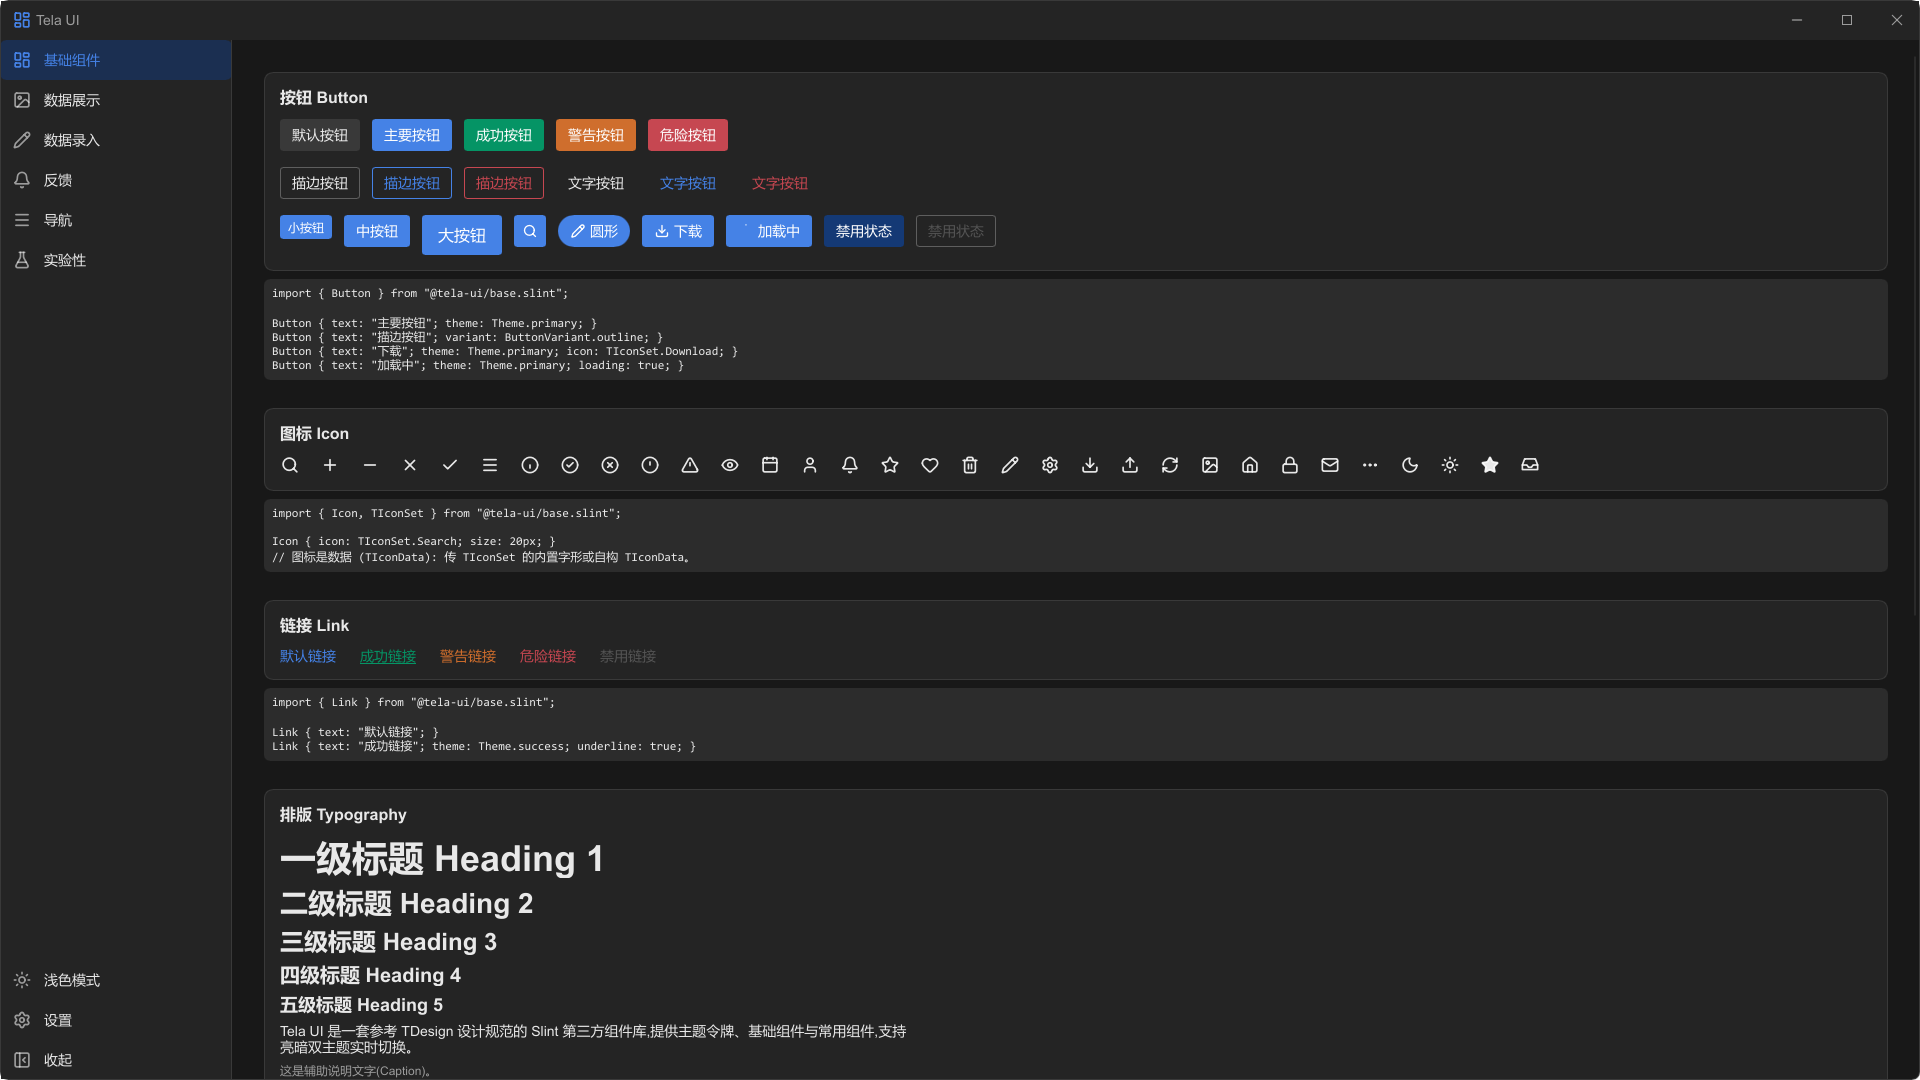
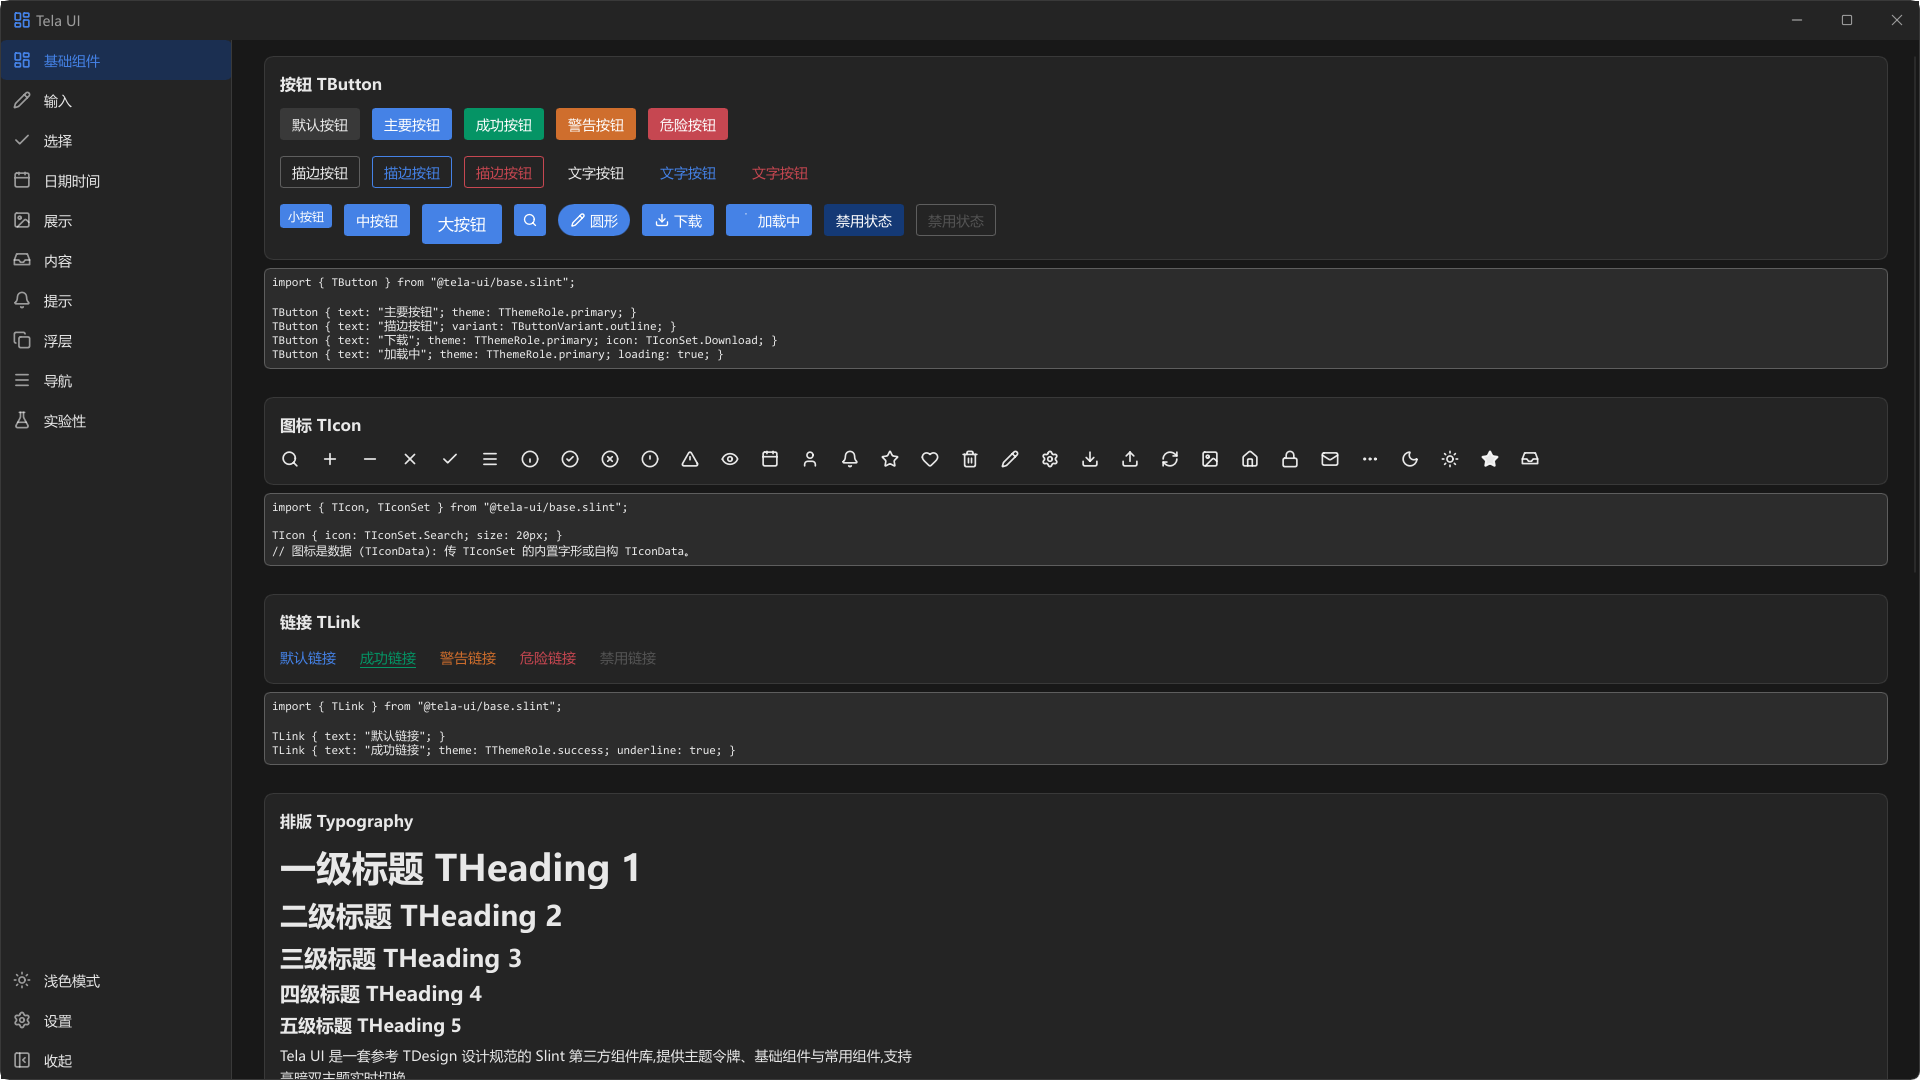
feat(tela-ui): Added TTree component with nested declarative branches
- Added TTree, TTreeItem and TTreeBranch; branches take children through @children so nesting depth is unbounded.
- Animated folded branches by clipping height while keeping child instances alive.
- Shared the selected value through TTreeLogic and added Folder/File glyphs to TIconSet.
- Re-exported the tree from content.slint and common.slint.
- Added a gallery demo, component docs and a decision record, and refreshed screenshots.

diff --git a/CHANGELOG.md b/CHANGELOG.md
@@ -5,13 +5,14 @@
 ## [Unreleased]
 
 ### Added
-- 组件库: 70 个导出组件 = 57 个 UI 组件 + 8 个服务 overlay (TDialogService / TLoadingService / TMessage / TNotification / TTooltip / TImageViewerService / TActionSheetService / TCommandPaletteService) + 5 个库内基类 (TStrokedShape / TInputFrame / TModalSurface / TPopupSurface / TPopupStackLayer)。
+- 组件库: 73 个导出组件 = 60 个 UI 组件 + 8 个服务 overlay (TDialogService / TLoadingService / TMessage / TNotification / TTooltip / TImageViewerService / TActionSheetService / TCommandPaletteService) + 5 个库内基类 (TStrokedShape / TInputFrame / TModalSurface / TPopupSurface / TPopupStackLayer)。
 - `TTable`: 列定义 + 行模型, 表头排序回调 (`sort-changed`), 行点击回调, ListView 虚拟滚动与空态; 列宽超出时水平滚动且表头同步; 排序只上报, 行重排由宿主完成。
 - `TCalendar` / `TDatePicker`: 月历面板 (闰年/大小月/首日星期在 Slint 内计算), 单选与区间选择, 只读触发器 + 锚定弹层; 区间底色为连通色带, 起点/终点按 50% 圆角收口 (与日期圆圈一致); `TDate` 结构承载年/月/日。
 - `TTimePicker`: 时间选择, 只读触发器 + 锚定时/分(秒)面板; 整列数据带动画滚动, 选中框画在选中行上随数据移动, 点击或滚轮逐格改值, 无确认按钮 (点击外部 / ESC 关闭); `TTime` 结构承载时/分/秒 (`hour < 0` = 未选); `TIconSet` 新增 `Clock`。
 - `TAutoComplete`: 输入联想, TInput + 锚定建议列表; 按标签做不区分大小写的子串过滤 (行内塌陷, 不重建模型), 聚焦或键入展开, 高亮首条可选匹配, 回车/点击选中, 无匹配显示 `empty-text`; `TAutoCompleteItem` 承载 label/value/disabled。
 - `TInput`: 新增公开函数 `move-caret-to-end()`, 宿主写入 `text` 后可把光标放到末尾。
-- `common.slint`: 补齐 `TTable` / `TSkeleton` / `TCalendar` / `TDatePicker` / `TTimePicker` / `TAutoComplete` 导出, 与分类聚合器保持一致。
+- `TTree`: 树形控件, 嵌套声明式结构 (参考 sleek-ui `UMenu`): `TTree` + `TTreeItem` + `TTreeBranch`, 分支用 `@children` 承载子节点, 深度不限且无需组件递归; 分支折叠靠 `clip` + 高度动画 (收起后子节点保留实例); 叶子点击写入 `TTreeLogic.current-value` (全局选中值, 与 sleek-ui `UMenuLogic` 同构); `TIconSet` 新增 `Folder` / `File`。
+- `common.slint`: 补齐 `TTable` / `TSkeleton` / `TCalendar` / `TDatePicker` / `TTimePicker` / `TAutoComplete` / `TTree` 导出, 与分类聚合器保持一致。
 - 浮层体系: `TPopupSurface` 锚定弹层 + `TPopupStack` 层计数 / ESC / z 序令牌。
 - 设计令牌: `TTheme` global 151 个顶层转发, `TAppThemeConfig` 103 字段, 亮/暗两套色板 ramp。
 - 无障碍: 可点击元素覆盖 `accessible-role` / `accessible-label`, 浮层文本带 `accessible-live-region`, 禁用态显式 `accessible-enabled` 并在动作回调自带守卫。

diff --git a/docs/decisions.md b/docs/decisions.md
@@ -23,3 +23,4 @@
 - **不做令牌漂移守卫 (2026-10-18)** — 两套预设里那 70 个字段重复是刻意对齐 TDesign 令牌清单的结果, 不加运行时断言也不建测试工程; 改 `theme.slint` 时人工比对两套预设。
 - **分类聚合器按交互类型拆分 (2026-10-22)** — 组件数到 57 后, `data-entry` / `data-display` / `feedback` 各自塞了 13–16 个组件, 单类过宽; 拆成 `input` / `select` / `date-time` / `display` / `content` / `notice` / `overlay` 等目录与聚合器, 旧聚合器删除 (破坏性变更), `common.slint` 继续汇总全部导出; gallery 侧栏同步拆成 10 个页面 (另加设置页), 与聚合器一一对应。
 - **TTimePicker 用整列数据 + 行内选中框, 不套 ListView (2026-10-21)** — `ListView` 的 `content-y` 由内部 Flickable 接管, 按选中值定位会被下一次布局清回 0(见 `slint-semantics.md` 第 28 条), 所以时间列直接渲染整列(时 24 / 分秒 60 行), 自己维护偏移量并 `animate` 它: 选中框画在选中行上, 数据带动画滚动时它也一起移动, 点击或滚轮把新值送到中间。无确认按钮, 靠点击外部 / ESC 关闭。代价是没有虚拟化与惯性滚动; 换来真正的数据滚动与跟随数据的选中框。
+- **TTree 用嵌套声明, 不用扁平行模型 (2026-10-23)** — 照 sleek-ui 的 `UMenu` 做成 `TTree` / `TTreeItem` / `TTreeBranch`: 分支用 `@children` 收子节点, 折叠是把子节点放进 `clip` 盒并在 `preferred-height ↔ 0px` 间动画 (收起后实例保留, 焦点不丢)。此前的扁平行模型 (`rows` + `depth`) 要求宿主在回调里重建数组才能收起, 而组件自己既不能写 `rows`(它是 `in`) 也无法把子行藏起来, 落地就是"点了收不起来"。代价是选中值只能放全局 `TTreeLogic`(对应 sleek-ui `UMenuLogic`), 同窗口多树共享一份选中态; 换来点击即收、无需宿主管可见性的结构。深度靠元素嵌套而非组件递归, 不与其冲突。

diff --git a/docs/slint-semantics.md b/docs/slint-semantics.md
@@ -58,3 +58,5 @@
 27. **ListView 只自动算 `content-height`, 横向内容宽要自己给** — `Flickable` 对 `for` 循环生成的内容不会自动求 `content-width`(源码注明 issue #407), ListView 内部只维护纵向的 `content-height`; 要横向滚动就把 `content-width` 设成内容的固有宽度, 行元素显式给同一宽度, 表头绑 `content-x` 跟随。实测 TTable 1200px 固定列在 600px 视口里可横向滚动且表头同步, 纵向滚动与表头纵向固定不受影响。
 
 28. **ListView 的 `content-y` 归内部 Flickable 所有** — 外部给 `content-y` 写绑定或命令式赋值都留不住: 探针在 TTimeColumn 的 `init` 写入 192px/864px(视口高已就绪), 首帧后两条列都回到 0, 绑定也被那次内部写入解除; 换成 `Timer` 在打开后写同样被下一次布局复位。要做"数据整体滚动 + 选中值居中"的时间列, 不要在外面拨 ListView 的 `content-y`: 直接渲染整列、自己维护偏移量并 `animate` 它(TTimePicker 即整列数据 + 行内选中框), 或只渲染可见行而不滚动。
+
+29. **`for it[i] in model` 里写 `it.field = v` 会写回模型, 即使模型属性是 `in`** — 探针用一个 `in property <[MutRow]> rows` 加 `out property <bool> f0: rows[0].flag`, 点击行内 `TouchArea` 执行 `it.flag = !it.flag`: 点击前 `f0=false`, 点击后 `f0=true`, 说明循环变量对数组项是引用而非拷贝, 写入穿透到模型; 编译期也不把这种写入当"改 `in` 属性"拦下。所以扁平模型组件在回调里改行字段是可行的 —— TTree 最初"点了收不起来"不是写入被丢弃, 而是组件没有任何把子行藏起来的机制 (子行是否出现取决于宿主重建 `rows`), 最终改用嵌套声明 (见 `decisions.md`)。反过来, 依赖"改字段就能重绘"的说法未单独取像素证据, 需要时按本仓 `docs/harness.md` 的截图配方另测。

diff --git a/README.md b/README.md
@@ -89,7 +89,7 @@ TSwitch {
 }
 ```
 
-57 个组件 (基础 12 / 输入 6 / 选择 7 / 日期时间 3 / 展示 8 / 内容 4 / 提示 3 / 浮层 4 / 导航 9, 另有实验性 1; 导航 9 含私有 TNavLabel) 按类别聚合导出; 另有 8 个服务型浮层 (对话框 / 加载 / 消息 / 通知 / 图片预览 / 命令面板 / 动作面板 / 提示) 与主题、图标、浮层栈三个全局对象。`@tela-ui/common.slint` 保留为全量兼容出口, 完整参数说明见 [docs/components.md](docs/components.md)。
+60 个组件 (基础 12 / 输入 6 / 选择 7 / 日期时间 3 / 展示 8 / 内容 7 / 提示 3 / 浮层 4 / 导航 9, 另有实验性 1; 导航 9 含私有 TNavLabel) 按类别聚合导出; 另有 8 个服务型浮层 (对话框 / 加载 / 消息 / 通知 / 图片预览 / 命令面板 / 动作面板 / 提示) 与主题、图标、浮层栈三个全局对象。`@tela-ui/common.slint` 保留为全量兼容出口, 完整参数说明见 [docs/components.md](docs/components.md)。
 
 ## 致谢与说明
 
@@ -106,6 +106,7 @@ TSwitch {
     - TCalendar / TDatePicker 暂无键盘导航 (方向键切换日期、回车确认)。
     - TTimePicker 触发器只读, 滚轮逐格改值并直接触发 `changed`, 无确认按钮 (点击外部或 ESC 关闭), 暂无键盘导航。
     - TAutoComplete 暂无上下方向键步进 (高亮停在第一条可选匹配或悬停项); 过滤只匹配 `label` 子串, 不区分大小写。
+    - TTree 用嵌套声明 + `@children`, 选中态存在 `TTreeLogic` 全局里 (Slint 无实例级 global), 同屏多个树共享一份选中值; 折叠态是分支自己的 `opened`, 不写回模型。
 
 ## 许可证
 

diff --git a/docs/architecture.md b/docs/architecture.md
@@ -9,11 +9,11 @@
 - `ui/` + `src/` — gallery (bin `tela`); `ui/MainWindow.slint` 用 `if` 懒挂 11 个页面 (10 个分类页 + 设置页)。
 - 构建: Slint 1.18.1 / edition 2024 / 样式 `fluent` / accessibility + backend-winit + renderer-skia/software。
 
-## 统计 (2026-10-22)
+## 统计 (2026-10-23)
 
-- 91 个 `.slint` / 12,046 行: `tela-ui/` 78 个 10,048 行, `ui/` 13 个 1,998 行。
-- 70 个导出组件 = 57 个 UI 组件 (含私有 TNavLabel) + 8 个服务 overlay + 5 个库内基类 (TStrokedShape / TInputFrame / TModalSurface / TPopupSurface / TPopupStackLayer)。
-- 设计令牌: `TTheme` 151 个顶层转发 → `TAppThemeConfig` 103 字段; 色板在 `colors.slint` (亮/暗两套 ramp); `TIconSet` 44 个字形。
+- 92 个 `.slint` / 12,291 行: `tela-ui/` 79 个 10,251 行, `ui/` 13 个 2,040 行。
+- 73 个导出组件 = 60 个 UI 组件 (含私有 TNavLabel) + 8 个服务 overlay + 5 个库内基类 (TStrokedShape / TInputFrame / TModalSurface / TPopupSurface / TPopupStackLayer)。
+- 设计令牌: `TTheme` 151 个顶层转发 → `TAppThemeConfig` 103 字段; 色板在 `colors.slint` (亮/暗两套 ramp); `TIconSet` 46 个字形。
 - 浮层体系: `TPopupSurface` 锚定弹层 + `TPopupStack` 层计数与 ESC + z 序令牌 (`z-popup` / `z-modal` / `z-message`) + 服务型 global (`TDialogService` / `TLoadingService` / `TMessage` / `TNotification` / `TTooltip` / `TImageViewerService` / `TActionSheetService` / `TCommandPaletteService`)。
 
 ## 相关文档
